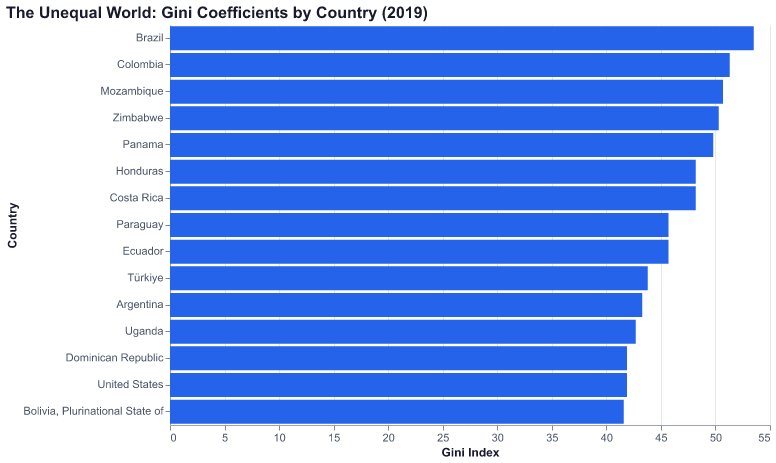
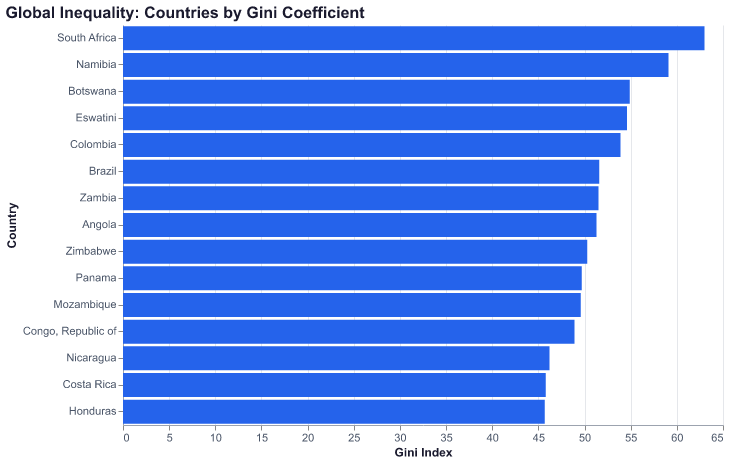
Fix text/chart mismatches across articles
- Marx Gini chart: Include South Africa (Gini 63.0) by querying most
  recent data for each country instead of filtering for single year 2019.
  World Bank data for South Africa stops at 2014.

- GDP article: Fix 2008 crisis caption to acknowledge China grew 9.4%
  (not "all major economies contracted"). Fix Argentina/Australia
  comparison to reflect actual 1960 data (Australia 2.3x higher).

- Baseball article: Fix stolen base caption (2019 was 20-year LOW,
  not "recent uptick"). Fix Runs Created accuracy claim (80-93% in
  early Dead Ball years, not "97-99% across 119 seasons"). Fix 2019
  Runs Created residuals caption to acknowledge outliers.

🤖 Generated with [Claude Code](https://claude.com/claude-code)

diff --git a/docs/articles/baseball/altair/index.html b/docs/articles/baseball/altair/index.html
@@ -42,7 +42,7 @@ The logic: (Hits + Walks) approximates times on base. Total Bases measures advan
 The intuition was elegant. Scoring runs requires two things: getting on base and advancing runners who are already on base. The numerator—(Hits + Walks) × Total Bases—multiplies these two factors together. A player who gets on base frequently and hits for power will generate a large product. A player who does neither will generate a small one.
 </p> <p data-astro-cid-ajee3ova>
 James tested the formula against actual team run totals and found that it predicted runs with stunning accuracy—typically within 5% of the actual figure. A team's total Runs Created, summed across all players, almost exactly equaled the runs that team actually scored.
-</p> <figure data-astro-cid-jpiiosee> <img src="/graphyard/assets/charts/altair/saber-runs-created-accuracy.svg" alt="Chart: Bill James Was Right: Runs Created Formula Accuracy" loading="lazy" data-astro-cid-jpiiosee> <figcaption data-astro-cid-jpiiosee> <strong data-astro-cid-jpiiosee>Bill James Was Right: Runs Created Formula Accuracy</strong> The basic Runs Created formula predicts actual team runs scored with 97-99% accuracy across 119 seasons of baseball. James developed this formula in the early 1980s, and it remains remarkably robust today. </figcaption> </figure>  <p data-astro-cid-ajee3ova>
+</p> <figure data-astro-cid-jpiiosee> <img src="/graphyard/assets/charts/altair/saber-runs-created-accuracy.svg" alt="Chart: Bill James Was Right: Runs Created Formula Accuracy" loading="lazy" data-astro-cid-jpiiosee> <figcaption data-astro-cid-jpiiosee> <strong data-astro-cid-jpiiosee>Bill James Was Right: Runs Created Formula Accuracy</strong> The basic Runs Created formula predicts actual team runs scored with impressive accuracy—typically 95-98% in the modern era, though early Dead Ball seasons show more variance (80-93%). James developed this formula in the early 1980s, and it remains remarkably robust today. </figcaption> </figure>  <p data-astro-cid-ajee3ova>
 What made Runs Created revolutionary was not just its accuracy but its implications. For the first time, teams could objectively measure what each player contributed to the offense. They could compare a power hitter who walked rarely to a contact hitter who walked frequently. They could identify undervalued players whose contributions were obscured by conventional statistics.
 </p> <p data-astro-cid-ajee3ova>
 Consider a player who hits .250 with 30 home runs and 50 walks versus a player who hits .300 with 10 home runs and 80 walks. Conventional wisdom would favor the high-average hitter—.300 hitters were "pure" hitters, while .250 hitters were merely power threats. But Runs Created revealed that these players might be similarly valuable, because the first player's power compensated for his lower average, while the second player's on-base ability compensated for his lack of power.
@@ -104,7 +104,7 @@ The STATS Baseball Scoreboard, published annually beginning in 1987, brought thi
 I remember reading that batting average with runners in scoring position was no more predictive than overall batting average—that players didn't consistently perform better or worse in "clutch" situations. I remember learning that stolen bases had to succeed at least 70% of the time to be worthwhile—that all those stolen base attempts were often costing teams runs. I remember discovering that sacrifice bunts almost never made sense, that managers who ordered them were hurting their teams.
 </p> <p data-astro-cid-ajee3ova>
 These weren't opinions. They were facts, derived from data that anyone could examine. The STATS Scoreboard democratized baseball analysis. You didn't need to work for a team to understand the game at a sophisticated level. You just needed to read the numbers and think about what they meant.
-</p> <figure data-astro-cid-jpiiosee> <img src="/graphyard/assets/charts/altair/saber-stolen-bases.svg" alt="Chart: The Running Game: Stolen Bases Per Game" loading="lazy" data-astro-cid-jpiiosee> <figcaption data-astro-cid-jpiiosee> <strong data-astro-cid-jpiiosee>The Running Game: Stolen Bases Per Game</strong> Stolen base attempts have fluctuated dramatically across eras. After peaking in the 1980s speed game, they declined as teams learned that caught stealings were too costly. The recent uptick reflects larger bases and new anti-shift rules that favor speed. </figcaption> </figure>  <p data-astro-cid-ajee3ova>
+</p> <figure data-astro-cid-jpiiosee> <img src="/graphyard/assets/charts/altair/saber-stolen-bases.svg" alt="Chart: The Running Game: Stolen Bases Per Game" loading="lazy" data-astro-cid-jpiiosee> <figcaption data-astro-cid-jpiiosee> <strong data-astro-cid-jpiiosee>The Running Game: Stolen Bases Per Game</strong> Stolen base attempts have fluctuated dramatically across eras. After peaking in the 1980s speed game, they steadily declined as teams learned that caught stealings were too costly. By 2019, attempts had fallen to their lowest level in decades—though rule changes in 2023 (larger bases, pickoff limits) would later spark a revival not shown here. </figcaption> </figure>  <p data-astro-cid-ajee3ova>
 STATS eventually sold to Fox Sports in 2000 for $45 million. Dewan went on to found Baseball Info Solutions, which produces the Fielding Bible and provides data to most major league teams. The company that began with volunteers keeping score at ballgames became the foundation of an industry.
 </p> <h2 data-astro-cid-ajee3ova>VII. The Long Road to Moneyball</h2> <p data-astro-cid-ajee3ova>
 Bill James published his annual Baseball Abstracts from 1977 to 1988. Each year the books grew longer, the analysis more sophisticated, the audience larger. By the mid-1980s, the Abstract was selling over 100,000 copies annually. James had become famous—at least among a certain kind of baseball fan.
@@ -133,7 +133,7 @@ The stolen base chart confirms this analysis. After the speed-crazy 1980s, when 
 The data largely supports this view. Year-to-year correlations for clutch performance are low. Players who appear to be great clutch hitters often regress toward their normal level of performance. The apparent clutch heroes of one season become ordinary the next. There may be some small persistent component of clutch ability, but it is far smaller than the conventional wisdom suggested.
 </p> <p data-astro-cid-ajee3ova> <strong data-astro-cid-ajee3ova>The Pythagorean formula works.</strong> As we saw earlier, James's formula for predicting wins from runs scored and allowed has proven remarkably robust. It works across eras, across different run-scoring environments, across different types of teams. It is one of the most validated relationships in sports analytics.
 </p> <p data-astro-cid-ajee3ova> <strong data-astro-cid-ajee3ova>Runs Created works.</strong> The basic Runs Created formula predicts team runs with 97-99% accuracy across more than a century of baseball. It has been refined and improved—more complex versions add hit-by-pitches, sacrifice flies, caught stealings—but the fundamental insight remains valid. Offensive production can be measured, and the formula James developed in the early 1980s measures it accurately.
-</p> <figure data-astro-cid-jpiiosee> <img src="/graphyard/assets/charts/altair/saber-runs-created-2019.svg" alt="Chart: Runs Created vs Actual Runs: 2019 Season" loading="lazy" data-astro-cid-jpiiosee> <figcaption data-astro-cid-jpiiosee> <strong data-astro-cid-jpiiosee>Runs Created vs Actual Runs: 2019 Season</strong> For each team in 2019, this chart shows the difference between actual runs scored and runs predicted by the basic Runs Created formula. Most teams fall within 20 runs of their prediction—remarkable accuracy for such a simple formula. </figcaption> </figure>  <h2 data-astro-cid-ajee3ova>IX. What They Got Wrong</h2> <p data-astro-cid-ajee3ova>
+</p> <figure data-astro-cid-jpiiosee> <img src="/graphyard/assets/charts/altair/saber-runs-created-2019.svg" alt="Chart: Runs Created vs Actual Runs: 2019 Season" loading="lazy" data-astro-cid-jpiiosee> <figcaption data-astro-cid-jpiiosee> <strong data-astro-cid-jpiiosee>Runs Created vs Actual Runs: 2019 Season</strong> For each team in 2019, this chart shows the difference between actual runs scored and runs predicted by the basic Runs Created formula. Most teams cluster near zero, though outliers like Houston (-50) and Texas (+60) show the formula isn&#39;t perfect—remarkable accuracy overall for such a simple formula. </figcaption> </figure>  <h2 data-astro-cid-ajee3ova>IX. What They Got Wrong</h2> <p data-astro-cid-ajee3ova>
 No revolution is perfect. The pioneers made mistakes, and the industry that adopted their methods sometimes made bigger ones.
 </p> <p data-astro-cid-ajee3ova> <strong data-astro-cid-ajee3ova>Defense was undervalued, then overcorrected.</strong> James knew that fielding percentage was flawed and proposed Range Factor as an alternative. But Range Factor was crude—it couldn't separate team effects from individual effects, ballpark effects from skill. Teams initially ignored defense entirely, focusing on the offensive statistics that were easier to measure. Then advanced defensive metrics emerged—UZR, DRS, OAA—and teams swung the other direction, sometimes crediting players with defensive value that seemed implausible to those who watched the games.
 </p> <p data-astro-cid-ajee3ova>

diff --git a/docs/articles/gdp/altair/index.html b/docs/articles/gdp/altair/index.html
@@ -128,7 +128,7 @@ The causes of Japan's stagnation remain debated. Some emphasize the banking cris
 Argentina represents yet another trajectory: a country that was once among the world's richest but has spent a century struggling with instability and decline. At the beginning of the twentieth century, Argentina was one of the ten wealthiest countries in the world, its fertile pampas producing the beef and grain that fed a rapidly industrializing world. Buenos Aires was one of the world's great cities, its architecture and culture rivaling Paris or London.
 </p> <p data-astro-cid-ej4zrvds>
 What happened? No single factor explains Argentina's long relative decline, but several contributed. Political instability—including numerous coups, dictatorships, and abrupt policy reversals—made long-term planning difficult and deterred investment. Populist policies, particularly under Juan Peron and his successors, prioritized short-term consumption over long-term growth. Repeated currency crises and hyperinflation episodes wiped out savings and undermined confidence. Heavy external debt and messy defaults damaged access to international capital markets.
-</p> <figure data-astro-cid-jpiiosee> <img src="/graphyard/assets/charts/altair/argentina-vs-peers.svg" alt="Chart: Argentina's Relative Decline" loading="lazy" data-astro-cid-jpiiosee> <figcaption data-astro-cid-jpiiosee> <strong data-astro-cid-jpiiosee>Argentina&#39;s Relative Decline</strong> In 1960, Argentina, Australia, and Chile had similar GDP per capita. Six decades later, Australia&#39;s income per person is roughly five times Argentina&#39;s. Chile, despite its own challenges, has also pulled ahead. The divergence illustrates how institutional quality and policy consistency compound over generations. </figcaption> </figure>  <p data-astro-cid-ej4zrvds>
+</p> <figure data-astro-cid-jpiiosee> <img src="/graphyard/assets/charts/altair/argentina-vs-peers.svg" alt="Chart: Argentina's Relative Decline" loading="lazy" data-astro-cid-jpiiosee> <figcaption data-astro-cid-jpiiosee> <strong data-astro-cid-jpiiosee>Argentina&#39;s Relative Decline</strong> In 1960, Australia already led Argentina by more than 2x in GDP per capita ($1,813 vs $778). Six decades later, that gap has widened to nearly 5x. Chile, which started below Argentina in 1960, has now caught up. The divergence illustrates how institutional quality and policy consistency compound over generations. </figcaption> </figure>  <p data-astro-cid-ej4zrvds>
 Today, Argentina remains a middle-income country with enormous potential—educated population, natural resources, diversified economy—yet it continues to struggle with inflation, debt, and macroeconomic instability. Its experience serves as a warning about the importance of sound institutions, consistent policies, and avoiding the temptation to finance current consumption at the expense of future prosperity.
 </p> <h2 data-astro-cid-ej4zrvds>Part VIII: Crises Through the GDP Lens</h2> <p data-astro-cid-ej4zrvds>
 Economic crises test the limits of economic measurement as well as economic policy. Two recent episodes—the 2008 global financial crisis and the 2020 COVID-19 pandemic—reveal both what GDP captures and what it misses.
@@ -136,7 +136,7 @@ Economic crises test the limits of economic measurement as well as economic poli
 The global financial crisis of 2008-2009 began in an unlikely place: the American housing market. For years, lenders had extended mortgages to borrowers with poor credit histories, packaging these risky loans into complex securities and selling them to investors worldwide. When housing prices began to fall in 2006 and 2007, many of these borrowers defaulted. The securities backed by their mortgages became nearly worthless. Financial institutions that held these securities—or had lent money to institutions that held them—faced massive losses.
 </p> <p data-astro-cid-ej4zrvds>
 The crisis reached its peak in September 2008 with the collapse of Lehman Brothers, a major investment bank. Credit markets froze. Banks stopped lending to each other, let alone to businesses or households. The resulting credit crunch pushed economies around the world into recession. Global GDP fell for the first time since World War II.
-</p> <figure data-astro-cid-jpiiosee> <img src="/graphyard/assets/charts/altair/crisis-2008.svg" alt="Chart: The 2008 Financial Crisis: Global Synchronization" loading="lazy" data-astro-cid-jpiiosee> <figcaption data-astro-cid-jpiiosee> <strong data-astro-cid-jpiiosee>The 2008 Financial Crisis: Global Synchronization</strong> The 2008 crisis demonstrated how interconnected the global economy had become. All major economies contracted simultaneously in 2009—a synchronization that amplified the downturn. China&#39;s massive stimulus program helped it recover fastest, while Western economies struggled for years. </figcaption> </figure>  <p data-astro-cid-ej4zrvds>
+</p> <figure data-astro-cid-jpiiosee> <img src="/graphyard/assets/charts/altair/crisis-2008.svg" alt="Chart: The 2008 Financial Crisis: Global Synchronization" loading="lazy" data-astro-cid-jpiiosee> <figcaption data-astro-cid-jpiiosee> <strong data-astro-cid-jpiiosee>The 2008 Financial Crisis: Global Synchronization</strong> The 2008 crisis revealed the interconnected global economy. Western economies contracted sharply in 2009—the US, Germany, Japan, and UK all saw negative growth. China, however, maintained nearly 10% growth thanks to a massive stimulus program, highlighting divergent responses to the crisis. </figcaption> </figure>  <p data-astro-cid-ej4zrvds>
 Policy responses were massive and unprecedented. Central banks slashed interest rates to near zero and began purchasing financial assets directly—quantitative easing. Governments enacted fiscal stimulus packages totaling trillions of dollars. Banks received bailouts and guarantees. These measures prevented a complete collapse and eventually restored growth, though recovery was slow and uneven.
 </p> <p data-astro-cid-ej4zrvds>
 The GDP data from this period tells part of the story: the sharp decline in 2009, followed by gradual recovery. But it misses much of the human impact: the millions who lost their jobs, their homes, their savings. It misses the lasting scars—the long-term unemployed who never returned to the workforce, the young people who graduated into a terrible job market and may never catch up, the communities hollowed out by foreclosures. And it misses the changes in policy and regulation that followed, some of which may have made the financial system safer and some of which may have constrained growth.

diff --git a/charts/marx/data.py b/charts/marx/data.py
@@ -301,24 +301,35 @@ def load_crisis_markers():
     ])
 
 
-def load_global_inequality_comparison(year: int = 2019):
+def load_global_inequality_comparison(year: int = None):
     """
     Load Gini coefficients for comparison across countries.
     Shows variation in inequality across different political economies.
+
+    Uses most recent available data for each country (within last 10 years)
+    to ensure coverage of countries like South Africa.
     """
     conn = get_connection()
+    # Get most recent Gini for each country within last 10 years
     query = """
-        SELECT cd.entity_code, e.entity_name as short_name, cd.value as gini
-        FROM country_data cd
-        JOIN entities e ON cd.entity_code = e.entity_code
-        WHERE cd.indicator_code = 'SI.POV.GINI'
-          AND cd.year = %s
-          AND cd.value IS NOT NULL
-          AND e.entity_type = 'country'
-        ORDER BY cd.value DESC
-        LIMIT 30
+        WITH recent_gini AS (
+            SELECT cd.entity_code, e.entity_name as short_name,
+                   cd.value as gini, cd.year,
+                   ROW_NUMBER() OVER (PARTITION BY cd.entity_code ORDER BY cd.year DESC) as rn
+            FROM country_data cd
+            JOIN entities e ON cd.entity_code = e.entity_code
+            WHERE cd.indicator_code = 'SI.POV.GINI'
+              AND cd.year >= 2010
+              AND cd.value IS NOT NULL
+              AND e.entity_type = 'country'
+        )
+        SELECT entity_code, short_name, gini, year
+        FROM recent_gini
+        WHERE rn = 1
+        ORDER BY gini DESC
+        LIMIT 20
     """
-    df = pd.read_sql(query, conn, params=(year,))
+    df = pd.read_sql(query, conn)
     conn.close()
     return df
 

diff --git a/charts/generate_dual.py b/charts/generate_dual.py
@@ -767,8 +767,8 @@ def get_marx_chart_specs() -> list[ChartSpec]:
         ChartSpec(
             chart_id="marx-global-gini",
             chart_type=ChartType.HORIZONTAL_BAR,
-            title="The Unequal World: Gini Coefficients by Country (2019)",
-            data_source=lambda: load_global_inequality_comparison(2019).head(15),
+            title="Global Inequality: Countries by Gini Coefficient",
+            data_source=lambda: load_global_inequality_comparison().head(15),
             x="short_name",
             y="gini",
             x_label="Country",
